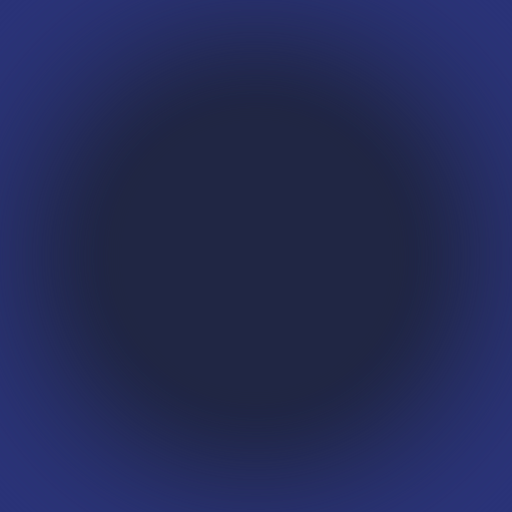
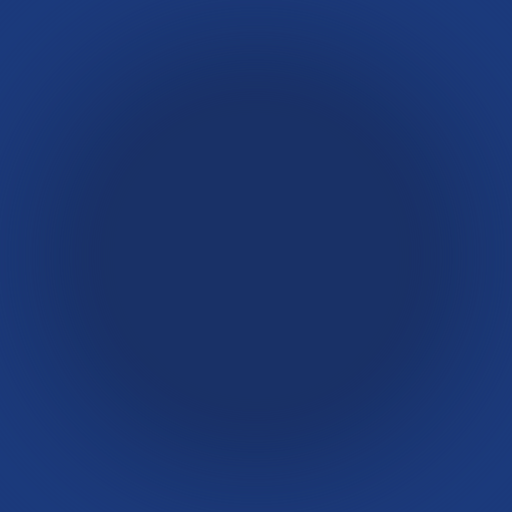
dawn and night skybox

diff --git a/apps/appClient/src/components/game/PrimaryCanvas.tsx b/apps/appClient/src/components/game/PrimaryCanvas.tsx
@@ -1,6 +1,5 @@
 import { GRAVITY } from "@block-shooter/shared";
 import {
-  Environment,
   GizmoHelper,
   GizmoViewport,
   Loader,
@@ -9,25 +8,25 @@ import {
 } from "@react-three/drei";
 import { Canvas } from "@react-three/fiber";
 import { Physics } from "@react-three/rapier";
-import { useTweakpane } from "../../hooks/useTweakPane";
-import { FOV } from "../../utils/tunablesClient";
-import CrosshairUI from "./ui/CrosshairUI";
-import ArenaGeometry from "./ArenaGeometry";
-import KillFeedUI from "./ui/KillFeedUI";
-import LocalPlayer from "./LocalPlayer";
-import MatchTimerUI from "./ui/MatchTimerUI";
-import { NetworkManager } from "./NetworkManager";
-import PlayButtonUI from "./ui/PlayButtonUI";
-import RemotePlayers from "./RemotePlayers";
-import ScoreboardUI from "./ui/ScoreboardUI";
-import { SoundManager } from "./SoundManager";
-import WeaponViewmodel from "./WeaponViewModel";
-import AdsVignette from "./AdsVigette";
-import LocalPlayerUI from "./ui/LocalPlayerUI";
-import ControlsDisplayUI from "./ui/ControlsDisplayUI";
-import { useAppStore } from "../../stores/useAppStore";
 import { useEffect } from "react";
-import { skyboxBank } from "../../utils/assetPaths";
+import { useTweakpane } from "../../hooks/useTweakPane";
+import { useAppStore } from "../../stores/useAppStore";
+import { FOV } from "../../utils/tunablesClient";
+import AdsVignette from "./AdsVigette";
+import ArenaGeometry from "./ArenaGeometry";
+import LocalPlayer from "./LocalPlayer";
+import NetworkManager from "./NetworkManager";
+import RemotePlayers from "./RemotePlayers";
+import SkyBox from "./SkyBox";
+import SoundManager from "./SoundManager";
+import ControlsDisplayUI from "./ui/ControlsDisplayUI";
+import CrosshairUI from "./ui/CrosshairUI";
+import KillFeedUI from "./ui/KillFeedUI";
+import LocalPlayerUI from "./ui/LocalPlayerUI";
+import MatchTimerUI from "./ui/MatchTimerUI";
+import PlayButtonUI from "./ui/PlayButtonUI";
+import ScoreboardUI from "./ui/ScoreboardUI";
+import WeaponViewmodel from "./WeaponViewModel";
 
 const PrimaryScene = () => {
   const { showPhyDebug, showGizmo, showFPS } = useTweakpane(
@@ -50,17 +49,7 @@ const PrimaryScene = () => {
           <GizmoViewport labelColor="white" visible={showGizmo} />
         </GizmoHelper>
         <Stats showPanel={showFPS ? 0 : 4} />
-        <Environment
-          files={[
-            skyboxBank.day.px,
-            skyboxBank.day.nx,
-            skyboxBank.day.py,
-            skyboxBank.day.ny,
-            skyboxBank.day.pz,
-            skyboxBank.day.nz,
-          ]}
-          background
-        />
+        <SkyBox />
         <>
           {/* captures mouse and moves camera for local player */}
           <LocalPlayer />

diff --git a/apps/appClient/src/components/game/SkyBox.tsx b/apps/appClient/src/components/game/SkyBox.tsx
@@ -1,0 +1,61 @@
+import { useEffect } from "react";
+import { Environment } from "@react-three/drei";
+import { skyboxBank } from "../../utils/assetPaths";
+import { useTweakpane } from "../../hooks/useTweakPane";
+
+const SkyBox = () => {
+  const { timeOfDay } = useTweakpane(
+    { title: "🏞 Scene" },
+    {
+      timeOfDay: {
+        value: "day",
+        options: {
+          day: "day",
+          night: "night",
+          dawn: "dawn",
+          evening: "evening",
+        },
+      },
+    },
+  );
+
+  // loop through all available skyboxes and preload their textures
+  useEffect(() => {
+    Object.values(skyboxBank).forEach((skybox) => {
+      const preloadUrls = [
+        skybox.px,
+        skybox.nx,
+        skybox.py,
+        skybox.ny,
+        skybox.pz,
+        skybox.nz,
+      ];
+
+      // cache each individual cubemap face
+      preloadUrls.forEach((url) => {
+        const img = new Image();
+        img.src = url;
+      });
+    });
+  }, []);
+
+  // map the selection to the corresponding texture bank
+  const currentSkybox = skyboxBank[timeOfDay as keyof typeof skyboxBank];
+
+  return (
+    <Environment
+      key={timeOfDay}
+      files={[
+        currentSkybox.px,
+        currentSkybox.nx,
+        currentSkybox.py,
+        currentSkybox.ny,
+        currentSkybox.pz,
+        currentSkybox.nz,
+      ]}
+      background
+    />
+  );
+};
+
+export default SkyBox;

diff --git a/apps/appClient/src/utils/assetPaths.ts b/apps/appClient/src/utils/assetPaths.ts
@@ -46,4 +46,20 @@ export const skyboxBank = {
     pz: "/images/daySkybox/pz.png",
     nz: "/images/daySkybox/nz.png",
   },
+  dawn: {
+    px: "/images/dawnSkybox/px.png",
+    nx: "/images/dawnSkybox/nx.png",
+    py: "/images/dawnSkybox/py.png",
+    ny: "/images/dawnSkybox/ny.png",
+    pz: "/images/dawnSkybox/pz.png",
+    nz: "/images/dawnSkybox/nz.png",
+  },
+  evening: {
+    px: "/images/eveningSkybox/px.png",
+    nx: "/images/eveningSkybox/nx.png",
+    py: "/images/eveningSkybox/py.png",
+    ny: "/images/eveningSkybox/ny.png",
+    pz: "/images/eveningSkybox/pz.png",
+    nz: "/images/eveningSkybox/nz.png",
+  },
 };

diff --git a/apps/appClient/src/components/game/NetworkManager.tsx b/apps/appClient/src/components/game/NetworkManager.tsx
@@ -2,7 +2,7 @@ import { useEffect } from "react";
 import { io } from "socket.io-client";
 import { useGameStore } from "../../stores/useGameStore";
 
-export function NetworkManager() {
+const NetworkManager = () => {
   const setPlayers = useGameStore((state) => state.setPlayers);
   const setLocalId = useGameStore((state) => state.setLocalId);
   const setChannel = useGameStore((state) => state.setChannel);
@@ -59,4 +59,6 @@ export function NetworkManager() {
   }, [setPlayers, setLocalId, setChannel]);
 
   return null;
-}
+};
+
+export default NetworkManager;

diff --git a/apps/appClient/src/components/game/SoundManager.tsx b/apps/appClient/src/components/game/SoundManager.tsx
@@ -3,7 +3,7 @@ import useSound from "use-sound";
 import { useGameStore } from "../../stores/useGameStore";
 import { soundBank } from "../../utils/assetPaths";
 
-export function SoundManager() {
+const SoundManager = () => {
   const channel = useGameStore((state) => state.channel);
   const localId = useGameStore((state) => state.localId);
 
@@ -41,4 +41,6 @@ export function SoundManager() {
   }, [channel, localId]);
 
   return null;
-}
+};
+
+export default SoundManager;
